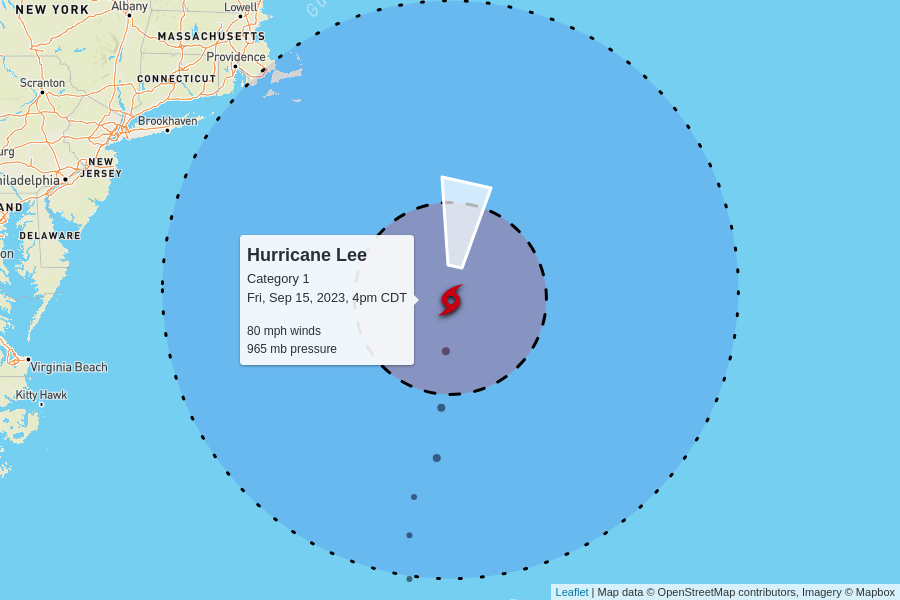
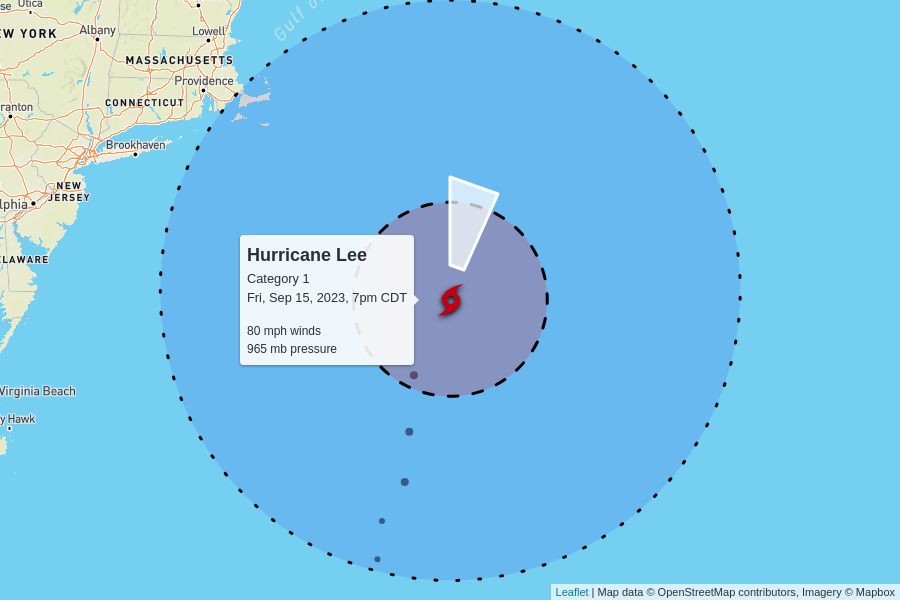
automatic update

diff --git a/docs/index.html b/docs/index.html
@@ -104,7 +104,7 @@
         <td colspan="6" class="storm category-1" >
           <h2>
             Hurricane Lee - Category 1
-            <p class="updated">last updated <span data-time>2023-09-15T21:00:00.000Z</span></p>
+            <p class="updated">last updated <span data-time>2023-09-16T00:00:00.000Z</span></p>
           </h2>
         </td>
       </tr>
@@ -122,9 +122,9 @@
         <td>80 mph<br>0 mph since last update</td>
         <td>965 mb<br>0 mb since last update</td>
         <td>
-          20 mph to the north
+          20 mph to the north-northeast
           <br/>
-          <span style="display: inline-block; font-size: 1.5em; transform: rotate(10deg);">↑</span>
+          <span style="display: inline-block; font-size: 1.5em; transform: rotate(15deg);">↑</span>
         </td>
         <td><a href="https://raw.githubusercontent.com/mgwalker/atlantic-hurricanes/main/data/csv/AL132023.csv">AL132023.csv</a></td>
         <td><a href="https://www.nhc.noaa.gov/archive/2023/LEE.shtml?">NHC advisories</a></td>
